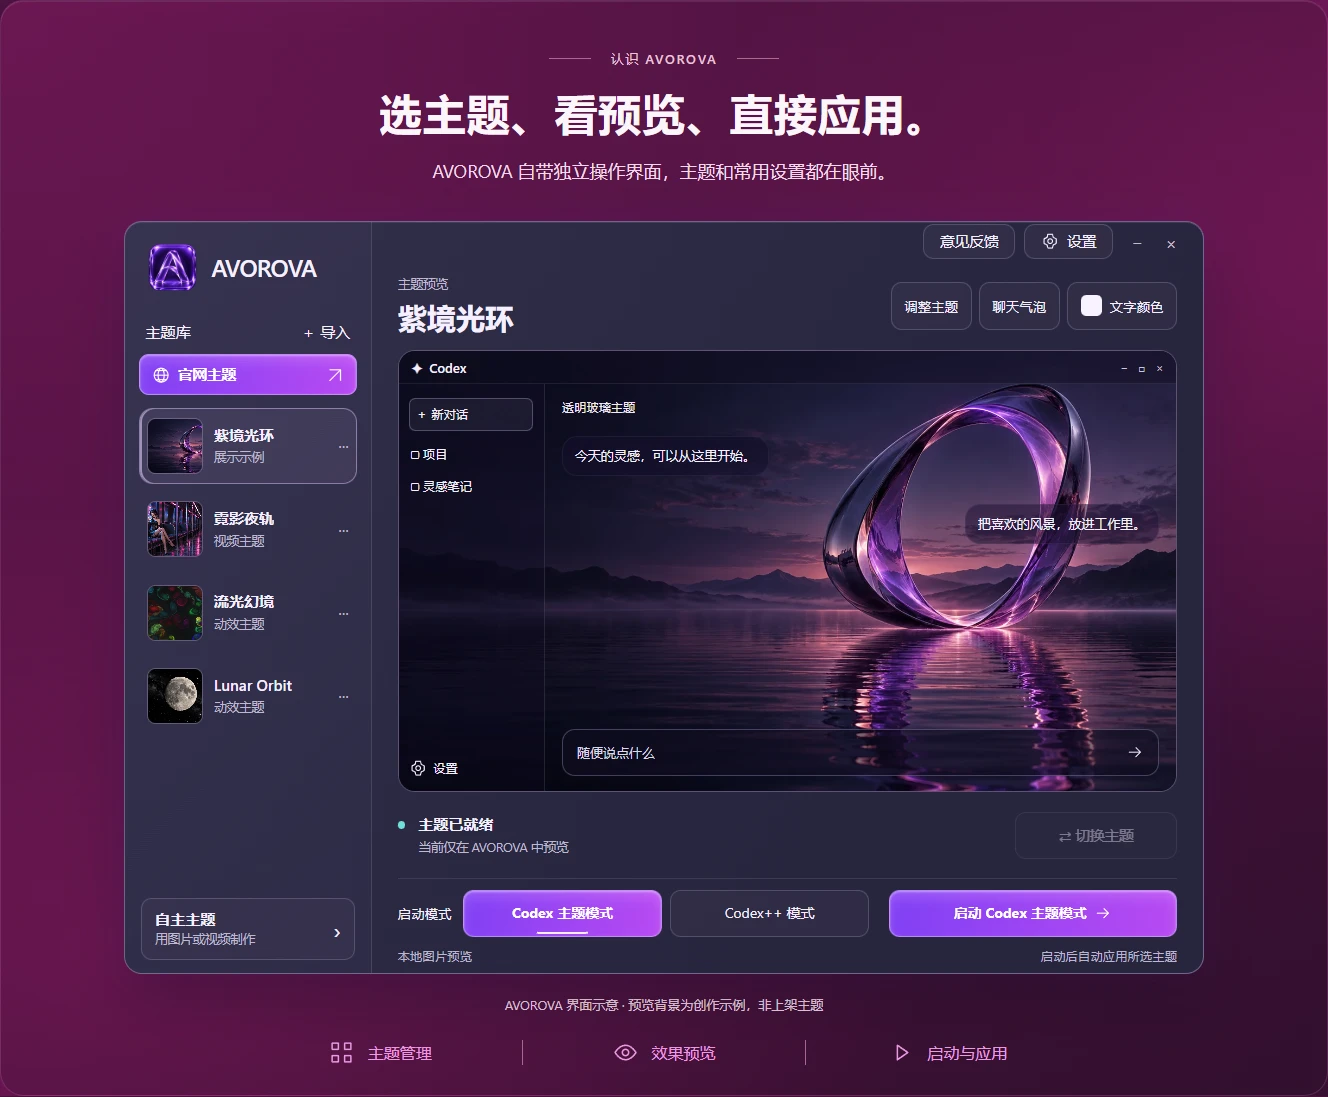
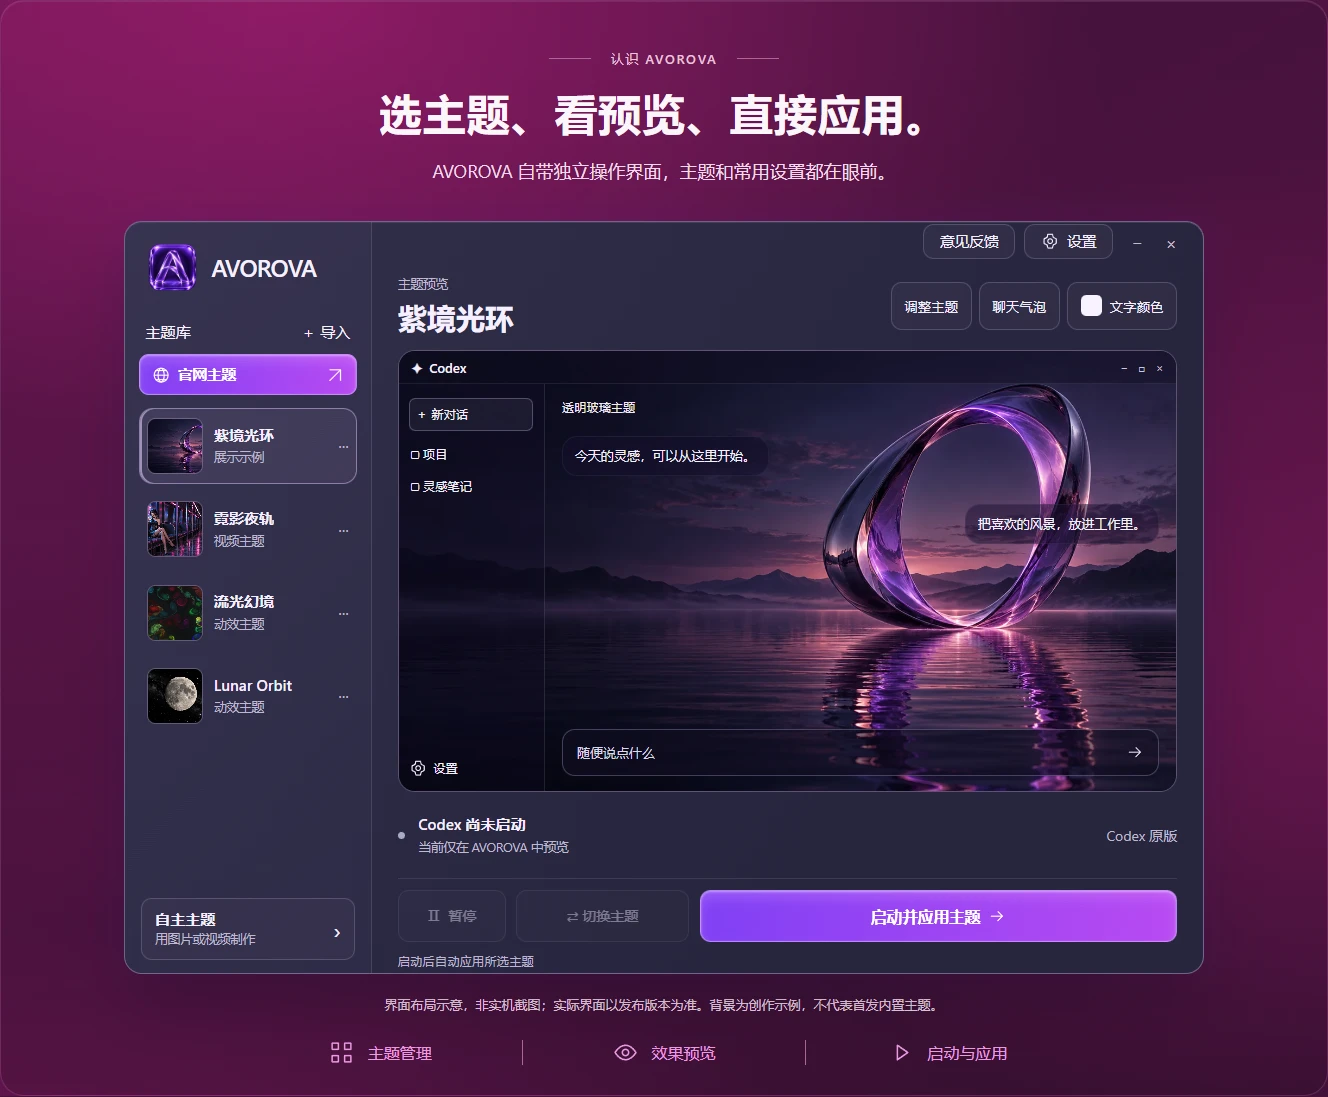
Update official Codex guidance and verified app interface screenshots

diff --git a/docs/FAQ.en.md b/docs/FAQ.en.md
@@ -31,6 +31,12 @@ AVOROVA provides themes, skins, and desktop customization for the ChatGPT deskto
 
 The themes and demonstrations here focus on the desktop app's Codex interface. AVOROVA is not a browser skin extension for chatgpt.com. Supported Windows and desktop app versions will be listed in the release notes. Compatibility with every version is not promised.
 
+The first release is designed for original Codex. Current verification covers Windows Store installations. Other installation sources or launch entry points require separate verification; matching application names alone do not establish compatibility.
+
+## How do I launch a theme for the first time?
+
+After installing the official AVOROVA release, sign in with your existing Codex account, choose a theme in AVOROVA, and select “Launch & apply theme” after previewing it. Once running, you can pause motion or switch themes. The installer is not yet available; setup instructions will accompany the release.
+
 ## Can I try a Codex version that is not listed?
 
 Yes. An unlisted version is not necessarily incompatible. Codex updates frequently, and AVOROVA continues to adapt. The table records versions and features actually tested; it is not a compatibility allowlist. See the [current baseline, 17 historical Store package versions, and known boundaries](COMPATIBILITY.en.md).
@@ -41,7 +47,7 @@ The theme library groups themes into types such as video, image, motion, and gla
 
 ## Can I interact with these animations?
 
-No. They are short loops recorded from website interface demonstrations, not desktop recordings or themes running inside GitHub. The Brainstorm panel is rendered from the current app interface code with sample data. Conversations, notes, and quota values are examples. The main-interface illustration uses a background created for the showcase, not a listed theme.
+No. They are short loops recorded from website interface demonstrations, not desktop recordings or themes running inside GitHub. The Brainstorm panel is rendered from the current app interface code with sample data. Conversations, notes, and quota values are examples. The main-interface image is a layout illustration, not an app screenshot; its concept background does not represent a bundled launch theme.
 
 ## Can motion themes affect performance?
 

diff --git a/README.en.md b/README.en.md
@@ -32,9 +32,11 @@ It also puts **Brainstorm** and a **quota battery** in the Codex title bar, so y
 
 Choose a theme, preview it, and apply it. Your theme library, preview, and everyday settings are together in one window.
 
-![AVOROVA interface illustration with theme management, preview, and everyday settings](assets/app-interface-en.webp)
+The first release is designed for **original Codex**: choose a theme, preview it, then select “Launch & apply theme”. Once running, you can pause motion or switch themes.
 
-*Interface illustration. The preview background was created for this showcase and is not a listed theme.*
+![Actual English AVOROVA interface with Neon Nocturne running, theme management, preview, and playback controls](assets/app-interface-en.png)
+
+*Actual English app screenshot with Neon Nocturne running. “Show Codex” appears after launch; “Restore Codex” removes the theme effect. This is a pre-release build; the installer is not yet available.*
 
 - **Manage and preview themes:** import a theme and see its appearance before applying it.
 - **Make adjustments:** adjust the theme, conversation bubbles, and text color.
@@ -114,7 +116,7 @@ Historical tests differ in scope, and the current AVOROVA build has not been ret
 | Item | Current status |
 | --- | --- |
 | Platform | ChatGPT desktop app / Codex on Windows |
-| How to use | Sign in to Codex with your existing account, then choose and apply themes through AVOROVA |
+| How to use | Original Codex; use your existing sign-in, then launch and apply themes through AVOROVA |
 | Quota display | Remaining Codex plan quota and reset times |
 | Installer | In preparation; no download is available in this repository |
 | Compatibility record | [Verified versions and compatibility notes](docs/COMPATIBILITY.en.md); not a version allowlist |

diff --git a/docs/COMPATIBILITY.en.md b/docs/COMPATIBILITY.en.md
@@ -6,6 +6,8 @@
 
 As of October 30, 2026, records cover at least **17 Codex Windows Store package versions**. The features tested vary by version. Historical results refer to the AVOROVA version available at the time; the current version has not been fully retested against every older package.
 
+The first release is designed for **original Codex**. These records cover Windows Store installations. Other installation sources or launch entry points require separate verification; application names or filenames alone do not establish compatibility. Final installer requirements will be stated in the release notes.
+
 ## Most recently verified Codex version
 
 | Version identifier | Version |

diff --git a/docs/COMPATIBILITY.zh-CN.md b/docs/COMPATIBILITY.zh-CN.md
@@ -6,6 +6,8 @@
 
 截至 2026-10-30，现有记录覆盖至少 **17 个 Codex Windows 商店包版本**。各版本验证的功能范围不同，历史记录对应当时的 AVOROVA，不表示当前版本已对全部旧版重新完整测试。
 
+首发面向 **Codex 原版**。本页记录以 Windows 商店版为准；其他安装来源或不同的启动入口仍需分别验证，不能仅凭名称或文件名判断兼容。首发安装包的最终要求以对应发布说明为准。
+
 ## 最近验证的 Codex 版本
 
 | 版本名称 | 版本号 |
